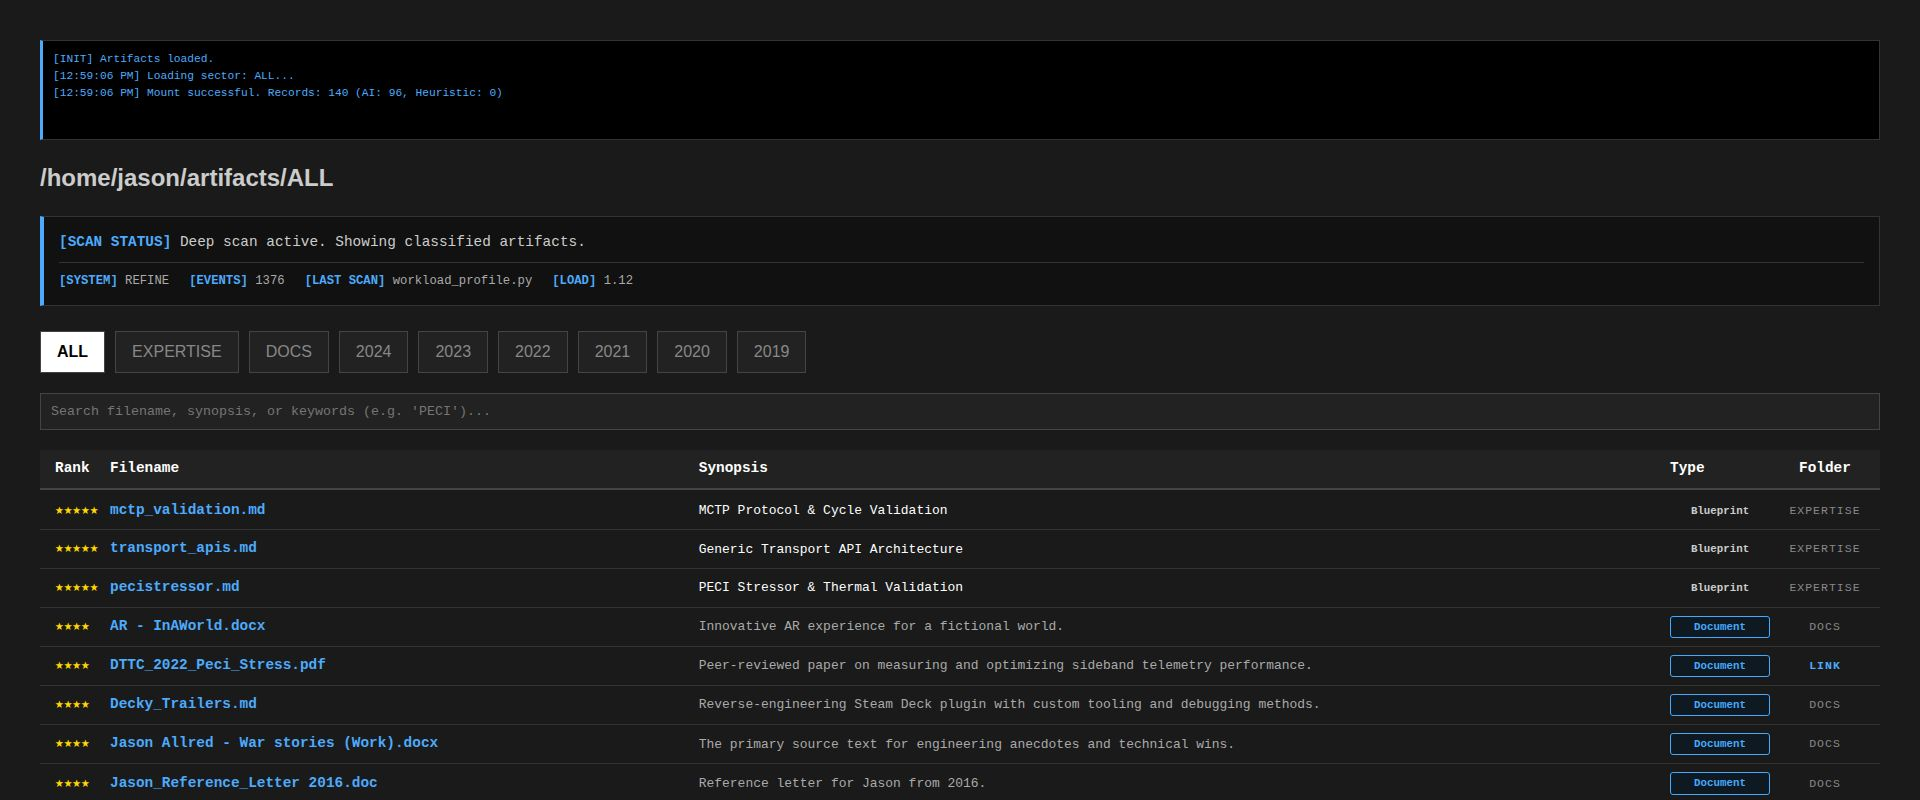
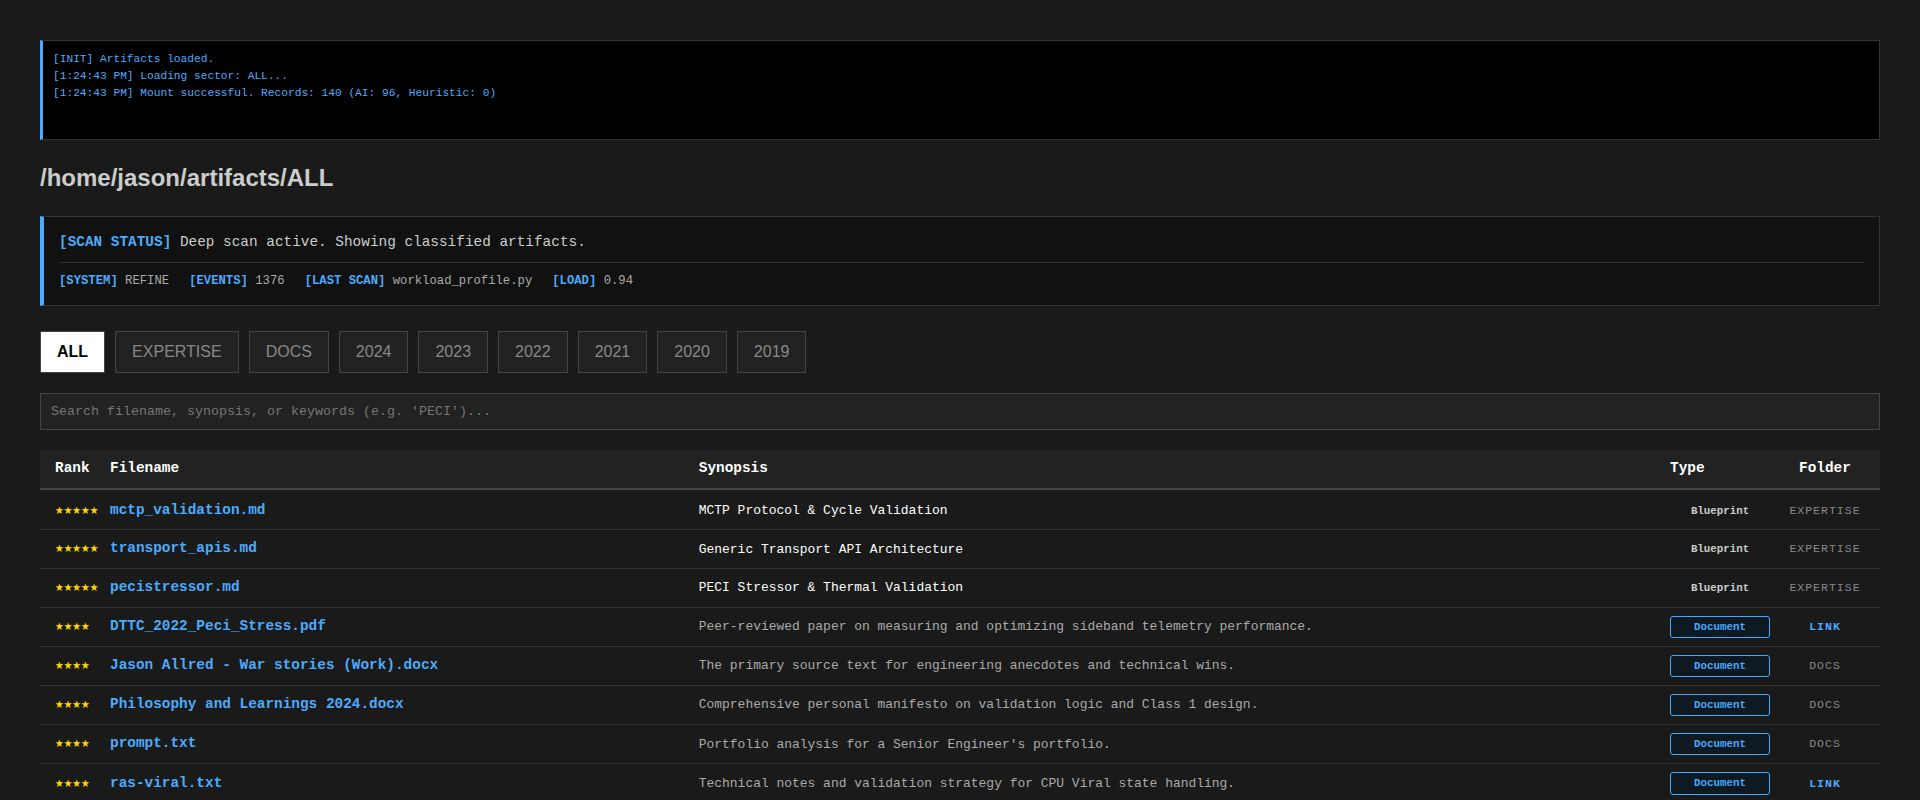
Airlock v3.2.4: Widescreen Stacked Layout with Intercom and Research trailers

diff --git a/index.html b/index.html
@@ -28,30 +28,30 @@
         }
         header {
             width: 100%;
-            padding: 40px 0;
+            padding: 60px 0;
             text-align: center;
             background: linear-gradient(180deg, #11161d 0%, #0a0e14 100%);
             border-bottom: 1px solid var(--border);
         }
-        h1 { font-size: 28px; margin: 0; font-weight: 600; letter-spacing: 1px; }
-        .subtitle { color: var(--accent); font-size: 14px; text-transform: uppercase; margin-top: 5px; font-weight: bold; }
+        h1 { font-size: 32px; margin: 0; font-weight: 600; letter-spacing: 2px; }
+        .subtitle { color: var(--accent); font-size: 14px; text-transform: uppercase; margin-top: 8px; font-weight: bold; letter-spacing: 1px; }
 
         .container {
-            max-width: 1200px;
+            max-width: 1000px;
             width: 90%;
-            padding: 40px 0;
+            padding: 60px 0;
         }
 
-        .trailer-grid {
-            display: grid;
-            grid-template-columns: repeat(auto-fit, minmax(500px, 1fr));
-            gap: 30px;
+        .trailer-stack {
+            display: flex;
+            flex-direction: column;
+            gap: 40px;
         }
 
         .trailer-card {
             background: var(--card);
             border: 1px solid var(--border);
-            border-radius: 8px;
+            border-radius: 12px;
             overflow: hidden;
             transition: transform 0.3s ease, border-color 0.3s ease;
             text-decoration: none;
@@ -60,31 +60,33 @@
             flex-direction: column;
         }
         .trailer-card:hover {
-            transform: translateY(-5px);
+            transform: scale(1.02);
             border-color: var(--accent);
-            box-shadow: 0 10px 30px rgba(0,0,0,0.5);
+            box-shadow: 0 20px 50px rgba(0,0,0,0.6);
         }
 
         .trailer-img {
             width: 100%;
-            height: 250px;
+            height: 400px;
             object-fit: cover;
+            object-position: top center;
             border-bottom: 1px solid var(--border);
-            opacity: 0.8;
+            opacity: 0.7;
             transition: opacity 0.3s ease;
         }
         .trailer-card:hover .trailer-img { opacity: 1; }
 
         .trailer-info {
-            padding: 20px;
+            padding: 25px;
+            background: rgba(0,0,0,0.3);
         }
-        .trailer-title { font-size: 18px; font-weight: bold; color: var(--accent); margin-bottom: 5px; }
-        .trailer-desc { font-size: 14px; color: var(--sub); line-height: 1.4; }
+        .trailer-title { font-size: 22px; font-weight: bold; color: var(--accent); margin-bottom: 8px; }
+        .trailer-desc { font-size: 15px; color: var(--sub); line-height: 1.5; }
 
         footer {
             margin-top: auto;
             width: 100%;
-            padding: 40px 0;
+            padding: 60px 0;
             text-align: center;
             border-top: 1px solid var(--border);
             font-size: 12px;
@@ -94,25 +96,26 @@
         .status-pill {
             display: inline-flex;
             align-items: center;
-            gap: 8px;
-            background: rgba(255,255,255,0.05);
-            padding: 6px 15px;
+            gap: 10px;
+            background: rgba(255,255,255,0.03);
+            padding: 8px 20px;
             border-radius: 20px;
             border: 1px solid var(--border);
-            margin-bottom: 20px;
+            margin-bottom: 40px;
+            font-size: 13px;
+            font-weight: bold;
         }
         .dot { 
-            width: 8px; height: 8px; 
+            width: 10px; height: 10px; 
             background: #d29922; 
             border-radius: 50%; 
-            box-shadow: 0 0 5px #d29922;
+            box-shadow: 0 0 8px #d29922;
         }
-        .dot.online { background: var(--success); box-shadow: 0 0 5px var(--success); }
-        .dot.offline { background: var(--error); box-shadow: 0 0 5px var(--error); }
+        .dot.online { background: var(--success); box-shadow: 0 0 8px var(--success); }
+        .dot.offline { background: var(--error); box-shadow: 0 0 8px var(--error); }
 
-        @media (max-width: 600px) {
-            .trailer-grid { grid-template-columns: 1fr; }
-            .trailer-img { height: 180px; }
+        @media (max-width: 800px) {
+            .trailer-img { height: 250px; }
         }
     </style>
 </head>
@@ -130,7 +133,7 @@
             </div>
         </div>
 
-        <div class="trailer-grid">
+        <div class="trailer-stack">
             <a href="https://notes.jason-lab.dev/stories.html" class="trailer-card">
                 <img src="assets/trailers/stories_trailer.jpg" class="trailer-img" alt="Work Stories">
                 <div class="trailer-info">
@@ -162,10 +165,26 @@
                     <div class="trailer-desc">Real-time telemetry from the Z87-Linux node. Power profiles, thermal metrics, and interleaved system logs.</div>
                 </div>
             </a>
+
+            <a href="https://notes.jason-lab.dev/research.html" class="trailer-card">
+                <img src="assets/trailers/research_trailer.jpg" class="trailer-img" alt="Research Pipeline">
+                <div class="trailer-info">
+                    <div class="trailer-title">Research Pipeline</div>
+                    <div class="trailer-desc">Mapping academic research to local silicon. The intellectual pedigree of the Acme Lab Bicameral Mind.</div>
+                </div>
+            </a>
+
+            <a href="https://notes.jason-lab.dev/intercom.html" class="trailer-card">
+                <img src="assets/trailers/intercom_trailer.jpg" class="trailer-img" alt="AI Lab Intercom">
+                <div class="trailer-info">
+                    <div class="trailer-title">AI Lab Intercom</div>
+                    <div class="trailer-desc">Direct interface to the Right Hemisphere (Pinky). Voice-enabled command and control for the Acme Lab environment.</div>
+                </div>
+            </a>
         </div>
 
-        <div style="margin-top: 60px; text-align: center;">
-            <a href="https://github.com/kEnder242" style="color: var(--accent); text-decoration: none; font-weight: bold; border: 1px solid var(--accent); padding: 10px 25px; border-radius: 4px;">VIEW GITHUB REPOSITORY</a>
+        <div style="margin-top: 80px; text-align: center;">
+            <a href="https://github.com/kEnder242" style="color: var(--accent); text-decoration: none; font-weight: bold; border: 1px solid var(--accent); padding: 12px 35px; border-radius: 4px; letter-spacing: 1px;">VIEW GITHUB REPOSITORY</a>
         </div>
     </div>
 
@@ -180,7 +199,6 @@
 
         async function checkStatus() {
             try {
-                // Probing the notes server
                 const r = await fetch(TARGET_URL, { mode: 'no-cors' });
                 dot.className = 'dot online';
                 text.innerText = 'LAB UPLINK NOMINAL';
